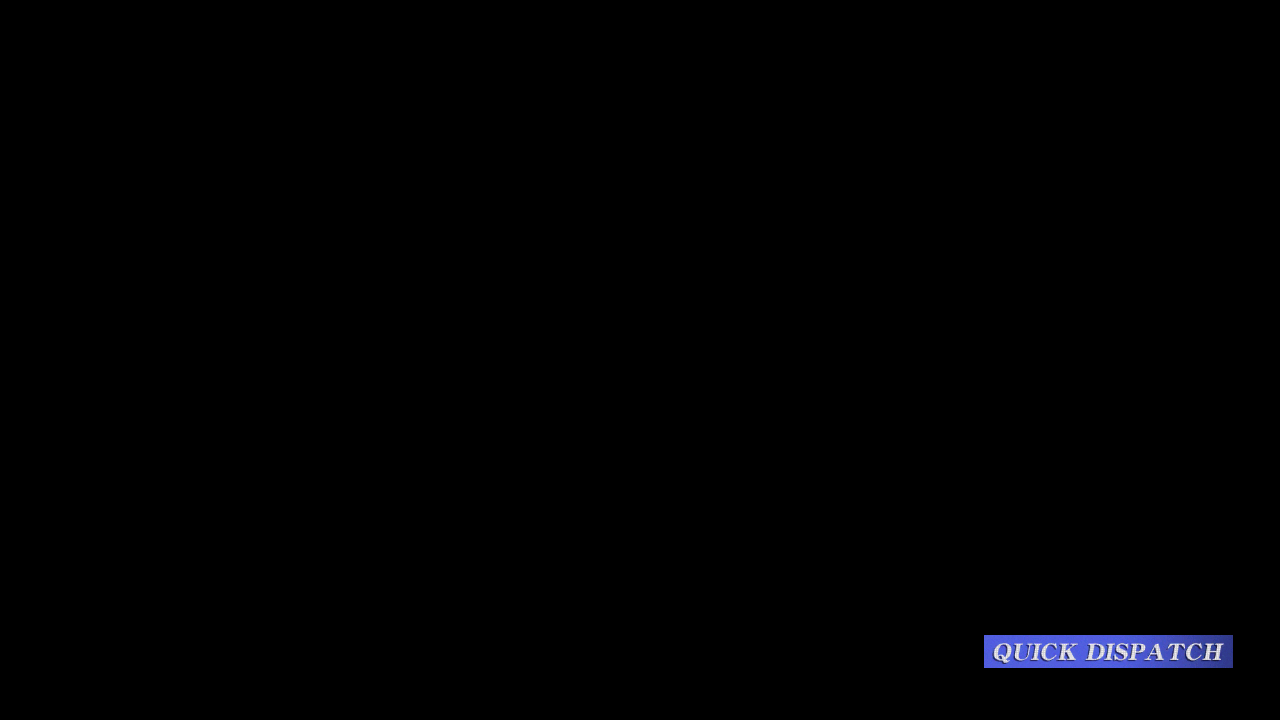
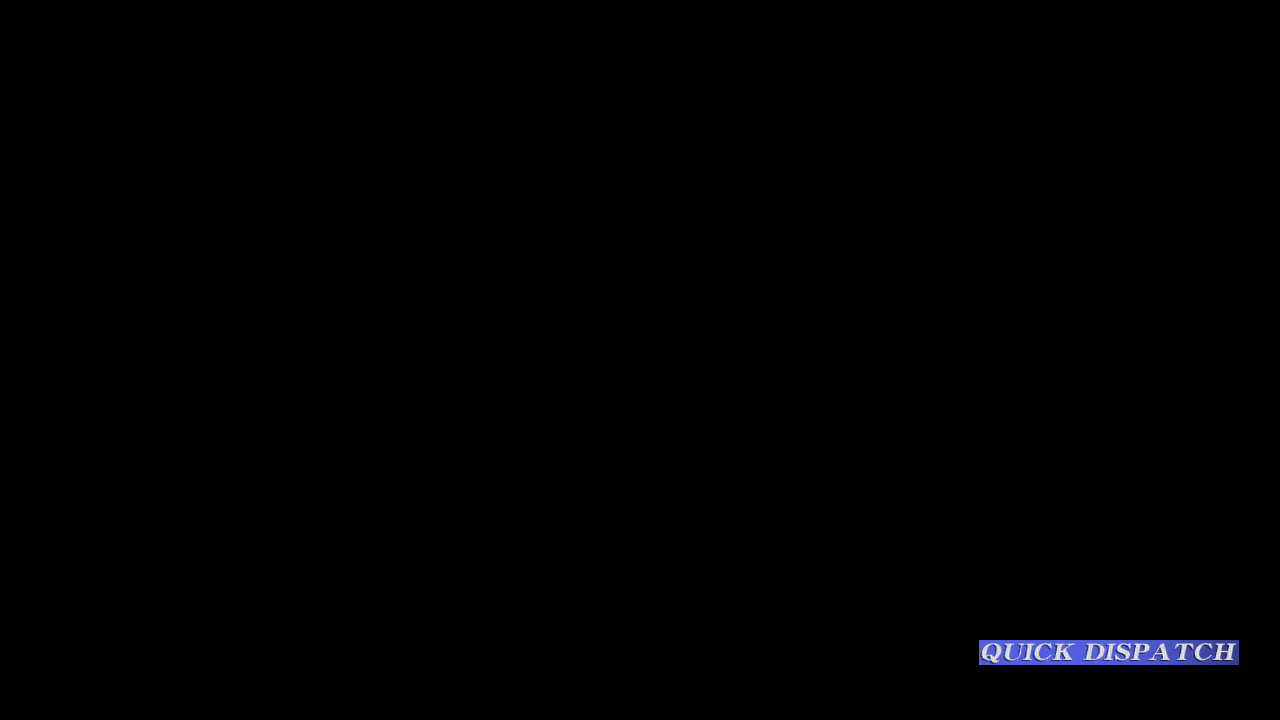
ALAS#4917更新

Changed region(s): [[0.75, 0.8556, 0.9688, 0.9472]]

diff --git a/module/coalition/assets.py b/module/coalition/assets.py
@@ -36,15 +36,18 @@ FROSTFALL_SWITCH_SINGLE = Button(area={'cn': (968, 449, 1098, 478), 'en': (968, 
 FROSTFALL_TC1 = Button(area={'cn': (304, 320, 330, 332), 'en': (304, 320, 330, 332), 'jp': (304, 320, 330, 332), 'tw': (304, 320, 330, 332)}, color={'cn': (204, 162, 254), 'en': (204, 162, 254), 'jp': (204, 162, 254), 'tw': (188, 137, 254)}, button={'cn': (304, 320, 330, 332), 'en': (304, 320, 330, 332), 'jp': (304, 320, 330, 332), 'tw': (304, 320, 330, 332)}, file={'cn': './assets/cn/coalition/FROSTFALL_TC1.png', 'en': './assets/en/coalition/FROSTFALL_TC1.png', 'jp': './assets/jp/coalition/FROSTFALL_TC1.png', 'tw': './assets/tw/coalition/FROSTFALL_TC1.png'})
 FROSTFALL_TC2 = Button(area={'cn': (631, 160, 658, 173), 'en': (631, 160, 658, 173), 'jp': (631, 160, 658, 173), 'tw': (631, 160, 658, 173)}, color={'cn': (186, 136, 252), 'en': (186, 136, 252), 'jp': (186, 136, 252), 'tw': (186, 136, 252)}, button={'cn': (631, 160, 658, 173), 'en': (631, 160, 658, 173), 'jp': (631, 160, 658, 173), 'tw': (631, 160, 658, 173)}, file={'cn': './assets/cn/coalition/FROSTFALL_TC2.png', 'en': './assets/en/coalition/FROSTFALL_TC2.png', 'jp': './assets/jp/coalition/FROSTFALL_TC2.png', 'tw': './assets/tw/coalition/FROSTFALL_TC2.png'})
 FROSTFALL_TC3 = Button(area={'cn': (810, 362, 835, 373), 'en': (810, 362, 835, 373), 'jp': (810, 362, 835, 373), 'tw': (810, 362, 835, 373)}, color={'cn': (197, 153, 255), 'en': (197, 153, 255), 'jp': (197, 153, 255), 'tw': (197, 153, 255)}, button={'cn': (810, 362, 835, 373), 'en': (810, 362, 835, 373), 'jp': (810, 362, 835, 373), 'tw': (810, 362, 835, 373)}, file={'cn': './assets/cn/coalition/FROSTFALL_TC3.png', 'en': './assets/en/coalition/FROSTFALL_TC3.png', 'jp': './assets/jp/coalition/FROSTFALL_TC3.png', 'tw': './assets/tw/coalition/FROSTFALL_TC3.png'})
-NEONCITY_COALITION_CHECK = Button(area={'cn': (230, 36, 276, 82), 'en': (230, 36, 276, 82), 'jp': (230, 36, 276, 82), 'tw': (230, 36, 276, 82)}, color={'cn': (136, 139, 142), 'en': (136, 139, 142), 'jp': (136, 139, 142), 'tw': (136, 139, 142)}, button={'cn': (230, 36, 276, 82), 'en': (230, 36, 276, 82), 'jp': (230, 36, 276, 82), 'tw': (230, 36, 276, 82)}, file={'cn': './assets/cn/coalition/NEONCITY_COALITION_CHECK.png', 'en': './assets/cn/coalition/NEONCITY_COALITION_CHECK.png', 'jp': './assets/cn/coalition/NEONCITY_COALITION_CHECK.png', 'tw': './assets/cn/coalition/NEONCITY_COALITION_CHECK.png'})
-NEONCITY_EASY = Button(area={'cn': (255, 252, 308, 270), 'en': (255, 252, 308, 270), 'jp': (255, 252, 308, 270), 'tw': (255, 252, 308, 270)}, color={'cn': (131, 132, 135), 'en': (131, 132, 135), 'jp': (131, 132, 135), 'tw': (131, 132, 135)}, button={'cn': (255, 252, 308, 270), 'en': (255, 252, 308, 270), 'jp': (255, 252, 308, 270), 'tw': (255, 252, 308, 270)}, file={'cn': './assets/cn/coalition/NEONCITY_EASY.png', 'en': './assets/cn/coalition/NEONCITY_EASY.png', 'jp': './assets/cn/coalition/NEONCITY_EASY.png', 'tw': './assets/cn/coalition/NEONCITY_EASY.png'})
-NEONCITY_EX = Button(area={'cn': (655, 353, 708, 370), 'en': (655, 353, 708, 370), 'jp': (655, 353, 708, 370), 'tw': (655, 353, 708, 370)}, color={'cn': (151, 150, 151), 'en': (151, 150, 151), 'jp': (151, 150, 151), 'tw': (151, 150, 151)}, button={'cn': (655, 353, 708, 370), 'en': (655, 353, 708, 370), 'jp': (655, 353, 708, 370), 'tw': (655, 353, 708, 370)}, file={'cn': './assets/cn/coalition/NEONCITY_EX.png', 'en': './assets/cn/coalition/NEONCITY_EX.png', 'jp': './assets/cn/coalition/NEONCITY_EX.png', 'tw': './assets/cn/coalition/NEONCITY_EX.png'})
-NEONCITY_FLEET_PREPARATION = Button(area={'cn': (1034, 533, 1130, 556), 'en': (1034, 533, 1130, 556), 'jp': (1034, 533, 1130, 556), 'tw': (1034, 533, 1130, 556)}, color={'cn': (107, 137, 239), 'en': (107, 137, 239), 'jp': (107, 137, 239), 'tw': (107, 137, 239)}, button={'cn': (1034, 533, 1130, 556), 'en': (1034, 533, 1130, 556), 'jp': (1034, 533, 1130, 556), 'tw': (1034, 533, 1130, 556)}, file={'cn': './assets/cn/coalition/NEONCITY_FLEET_PREPARATION.png', 'en': './assets/cn/coalition/NEONCITY_FLEET_PREPARATION.png', 'jp': './assets/cn/coalition/NEONCITY_FLEET_PREPARATION.png', 'tw': './assets/cn/coalition/NEONCITY_FLEET_PREPARATION.png'})
-NEONCITY_HARD = Button(area={'cn': (924, 549, 977, 567), 'en': (924, 549, 977, 567), 'jp': (924, 549, 977, 567), 'tw': (924, 549, 977, 567)}, color={'cn': (128, 128, 131), 'en': (128, 128, 131), 'jp': (128, 128, 131), 'tw': (128, 128, 131)}, button={'cn': (924, 549, 977, 567), 'en': (924, 549, 977, 567), 'jp': (924, 549, 977, 567), 'tw': (924, 549, 977, 567)}, file={'cn': './assets/cn/coalition/NEONCITY_HARD.png', 'en': './assets/cn/coalition/NEONCITY_HARD.png', 'jp': './assets/cn/coalition/NEONCITY_HARD.png', 'tw': './assets/cn/coalition/NEONCITY_HARD.png'})
-NEONCITY_MODE_BATTLE = Button(area={'cn': (8, 627, 86, 671), 'en': (8, 627, 86, 671), 'jp': (8, 627, 86, 671), 'tw': (8, 627, 86, 671)}, color={'cn': (72, 56, 62), 'en': (72, 56, 62), 'jp': (72, 56, 62), 'tw': (72, 56, 62)}, button={'cn': (8, 627, 86, 671), 'en': (8, 627, 86, 671), 'jp': (8, 627, 86, 671), 'tw': (8, 627, 86, 671)}, file={'cn': './assets/cn/coalition/NEONCITY_MODE_BATTLE.png', 'en': './assets/cn/coalition/NEONCITY_MODE_BATTLE.png', 'jp': './assets/cn/coalition/NEONCITY_MODE_BATTLE.png', 'tw': './assets/cn/coalition/NEONCITY_MODE_BATTLE.png'})
-NEONCITY_MODE_STORY = Button(area={'cn': (173, 627, 251, 668), 'en': (173, 627, 251, 668), 'jp': (173, 627, 251, 668), 'tw': (173, 627, 251, 668)}, color={'cn': (85, 67, 72), 'en': (85, 67, 72), 'jp': (85, 67, 72), 'tw': (85, 67, 72)}, button={'cn': (173, 627, 251, 668), 'en': (173, 627, 251, 668), 'jp': (173, 627, 251, 668), 'tw': (173, 627, 251, 668)}, file={'cn': './assets/cn/coalition/NEONCITY_MODE_STORY.png', 'en': './assets/cn/coalition/NEONCITY_MODE_STORY.png', 'jp': './assets/cn/coalition/NEONCITY_MODE_STORY.png', 'tw': './assets/cn/coalition/NEONCITY_MODE_STORY.png'})
-NEONCITY_NORMAL = Button(area={'cn': (329, 453, 381, 472), 'en': (329, 453, 381, 472), 'jp': (329, 453, 381, 472), 'tw': (329, 453, 381, 472)}, color={'cn': (148, 149, 152), 'en': (148, 149, 152), 'jp': (148, 149, 152), 'tw': (148, 149, 152)}, button={'cn': (329, 453, 381, 472), 'en': (329, 453, 381, 472), 'jp': (329, 453, 381, 472), 'tw': (329, 453, 381, 472)}, file={'cn': './assets/cn/coalition/NEONCITY_NORMAL.png', 'en': './assets/cn/coalition/NEONCITY_NORMAL.png', 'jp': './assets/cn/coalition/NEONCITY_NORMAL.png', 'tw': './assets/cn/coalition/NEONCITY_NORMAL.png'})
+NEONCITY_COALITION_CHECK = Button(area={'cn': (230, 36, 276, 82), 'en': (179, 30, 276, 68), 'jp': (122, 30, 250, 86), 'tw': (230, 36, 276, 82)}, color={'cn': (136, 139, 142), 'en': (95, 98, 101), 'jp': (71, 86, 101), 'tw': (136, 139, 142)}, button={'cn': (230, 36, 276, 82), 'en': (179, 30, 276, 68), 'jp': (122, 30, 250, 86), 'tw': (230, 36, 276, 82)}, file={'cn': './assets/cn/coalition/NEONCITY_COALITION_CHECK.png', 'en': './assets/en/coalition/NEONCITY_COALITION_CHECK.png', 'jp': './assets/jp/coalition/NEONCITY_COALITION_CHECK.png', 'tw': './assets/cn/coalition/NEONCITY_COALITION_CHECK.png'})
+NEONCITY_EASY = Button(area={'cn': (255, 252, 308, 270), 'en': (306, 208, 349, 229), 'jp': (245, 250, 320, 273), 'tw': (255, 252, 308, 270)}, color={'cn': (131, 132, 135), 'en': (115, 124, 154), 'jp': (130, 130, 134), 'tw': (131, 132, 135)}, button={'cn': (255, 252, 308, 270), 'en': (306, 208, 349, 229), 'jp': (245, 250, 320, 273), 'tw': (255, 252, 308, 270)}, file={'cn': './assets/cn/coalition/NEONCITY_EASY.png', 'en': './assets/en/coalition/NEONCITY_EASY.png', 'jp': './assets/jp/coalition/NEONCITY_EASY.png', 'tw': './assets/cn/coalition/NEONCITY_EASY.png'})
+NEONCITY_EX = Button(area={'cn': (655, 353, 708, 370), 'en': (714, 308, 741, 328), 'jp': (643, 350, 720, 373), 'tw': (655, 353, 708, 370)}, color={'cn': (151, 150, 151), 'en': (162, 100, 99), 'jp': (137, 136, 137), 'tw': (151, 150, 151)}, button={'cn': (655, 353, 708, 370), 'en': (714, 308, 741, 328), 'jp': (643, 350, 720, 373), 'tw': (655, 353, 708, 370)}, file={'cn': './assets/cn/coalition/NEONCITY_EX.png', 'en': './assets/en/coalition/NEONCITY_EX.png', 'jp': './assets/jp/coalition/NEONCITY_EX.png', 'tw': './assets/cn/coalition/NEONCITY_EX.png'})
+NEONCITY_FLEET_PREPARATION = Button(area={'cn': (1034, 533, 1130, 556), 'en': (1047, 532, 1118, 560), 'jp': (1043, 529, 1123, 560), 'tw': (1034, 533, 1130, 556)}, color={'cn': (107, 137, 239), 'en': (80, 116, 237), 'jp': (80, 115, 231), 'tw': (107, 137, 239)}, button={'cn': (1034, 533, 1130, 556), 'en': (1047, 532, 1118, 560), 'jp': (1043, 529, 1123, 560), 'tw': (1034, 533, 1130, 556)}, file={'cn': './assets/cn/coalition/NEONCITY_FLEET_PREPARATION.png', 'en': './assets/en/coalition/NEONCITY_FLEET_PREPARATION.png', 'jp': './assets/jp/coalition/NEONCITY_FLEET_PREPARATION.png', 'tw': './assets/cn/coalition/NEONCITY_FLEET_PREPARATION.png'})
+NEONCITY_HARD = Button(area={'cn': (924, 549, 977, 567), 'en': (977, 507, 1016, 524), 'jp': (913, 545, 989, 570), 'tw': (924, 549, 977, 567)}, color={'cn': (128, 128, 131), 'en': (115, 123, 150), 'jp': (112, 111, 115), 'tw': (128, 128, 131)}, button={'cn': (924, 549, 977, 567), 'en': (977, 507, 1016, 524), 'jp': (913, 545, 989, 570), 'tw': (924, 549, 977, 567)}, file={'cn': './assets/cn/coalition/NEONCITY_HARD.png', 'en': './assets/en/coalition/NEONCITY_HARD.png', 'jp': './assets/jp/coalition/NEONCITY_HARD.png', 'tw': './assets/cn/coalition/NEONCITY_HARD.png'})
+NEONCITY_MODE_BATTLE = Button(area={'cn': (8, 627, 86, 671), 'en': (14, 616, 80, 673), 'jp': (50, 608, 100, 677), 'tw': (8, 627, 86, 671)}, color={'cn': (72, 56, 62), 'en': (80, 69, 74), 'jp': (75, 69, 74), 'tw': (72, 56, 62)}, button={'cn': (8, 627, 86, 671), 'en': (14, 616, 80, 673), 'jp': (50, 608, 100, 677), 'tw': (8, 627, 86, 671)}, file={'cn': './assets/cn/coalition/NEONCITY_MODE_BATTLE.png', 'en': './assets/en/coalition/NEONCITY_MODE_BATTLE.png', 'jp': './assets/jp/coalition/NEONCITY_MODE_BATTLE.png', 'tw': './assets/cn/coalition/NEONCITY_MODE_BATTLE.png'})
+NEONCITY_MODE_STORY = Button(area={'cn': (173, 627, 251, 668), 'en': (174, 613, 239, 669), 'jp': (210, 607, 263, 680), 'tw': (173, 627, 251, 668)}, color={'cn': (85, 67, 72), 'en': (78, 66, 70), 'jp': (72, 68, 72), 'tw': (85, 67, 72)}, button={'cn': (173, 627, 251, 668), 'en': (174, 613, 239, 669), 'jp': (210, 607, 263, 680), 'tw': (173, 627, 251, 668)}, file={'cn': './assets/cn/coalition/NEONCITY_MODE_STORY.png', 'en': './assets/en/coalition/NEONCITY_MODE_STORY.png', 'jp': './assets/jp/coalition/NEONCITY_MODE_STORY.png', 'tw': './assets/cn/coalition/NEONCITY_MODE_STORY.png'})
+NEONCITY_NORMAL = Button(area={'cn': (329, 453, 381, 472), 'en': (371, 410, 429, 429), 'jp': (327, 451, 384, 474), 'tw': (329, 453, 381, 472)}, color={'cn': (148, 149, 152), 'en': (120, 128, 158), 'jp': (128, 128, 132), 'tw': (148, 149, 152)}, button={'cn': (329, 453, 381, 472), 'en': (371, 410, 429, 429), 'jp': (327, 451, 384, 474), 'tw': (329, 453, 381, 472)}, file={'cn': './assets/cn/coalition/NEONCITY_NORMAL.png', 'en': './assets/en/coalition/NEONCITY_NORMAL.png', 'jp': './assets/jp/coalition/NEONCITY_NORMAL.png', 'tw': './assets/cn/coalition/NEONCITY_NORMAL.png'})
+NEONCITY_PREPARATION_EXIT = Button(area={'cn': (1190, 52, 1231, 93), 'en': (1190, 52, 1231, 93), 'jp': (1190, 52, 1231, 93), 'tw': (1190, 52, 1231, 93)}, color={'cn': (109, 111, 115), 'en': (109, 111, 115), 'jp': (109, 111, 115), 'tw': (109, 111, 115)}, button={'cn': (1190, 52, 1231, 93), 'en': (1190, 52, 1231, 93), 'jp': (1190, 52, 1231, 93), 'tw': (1190, 52, 1231, 93)}, file={'cn': './assets/cn/coalition/NEONCITY_PREPARATION_EXIT.png', 'en': './assets/cn/coalition/NEONCITY_PREPARATION_EXIT.png', 'jp': './assets/cn/coalition/NEONCITY_PREPARATION_EXIT.png', 'tw': './assets/cn/coalition/NEONCITY_PREPARATION_EXIT.png'})
 NEONCITY_PT_OCR = Button(area={'cn': (1179, 166, 1251, 184), 'en': (1179, 166, 1251, 184), 'jp': (1179, 166, 1251, 184), 'tw': (1179, 166, 1251, 184)}, color={'cn': (31, 38, 44), 'en': (31, 38, 44), 'jp': (31, 38, 44), 'tw': (31, 38, 44)}, button={'cn': (1179, 166, 1251, 184), 'en': (1179, 166, 1251, 184), 'jp': (1179, 166, 1251, 184), 'tw': (1179, 166, 1251, 184)}, file={'cn': './assets/cn/coalition/NEONCITY_PT_OCR.png', 'en': './assets/cn/coalition/NEONCITY_PT_OCR.png', 'jp': './assets/cn/coalition/NEONCITY_PT_OCR.png', 'tw': './assets/cn/coalition/NEONCITY_PT_OCR.png'})
-NEONCITY_SP = Button(area={'cn': (821, 168, 874, 186), 'en': (821, 168, 874, 186), 'jp': (821, 168, 874, 186), 'tw': (821, 168, 874, 186)}, color={'cn': (144, 143, 143), 'en': (144, 143, 143), 'jp': (144, 143, 143), 'tw': (144, 143, 143)}, button={'cn': (821, 168, 874, 186), 'en': (821, 168, 874, 186), 'jp': (821, 168, 874, 186), 'tw': (821, 168, 874, 186)}, file={'cn': './assets/cn/coalition/NEONCITY_SP.png', 'en': './assets/cn/coalition/NEONCITY_SP.png', 'jp': './assets/cn/coalition/NEONCITY_SP.png', 'tw': './assets/cn/coalition/NEONCITY_SP.png'})
-NEONCITY_SWITCH_MULTI = Button(area={'cn': (1087, 458, 1217, 486), 'en': (1087, 458, 1217, 486), 'jp': (1087, 458, 1217, 486), 'tw': (1087, 458, 1217, 486)}, color={'cn': (233, 183, 63), 'en': (233, 183, 63), 'jp': (233, 183, 63), 'tw': (233, 183, 63)}, button={'cn': (1087, 458, 1217, 486), 'en': (1087, 458, 1217, 486), 'jp': (1087, 458, 1217, 486), 'tw': (1087, 458, 1217, 486)}, file={'cn': './assets/cn/coalition/NEONCITY_SWITCH_MULTI.png', 'en': './assets/cn/coalition/NEONCITY_SWITCH_MULTI.png', 'jp': './assets/cn/coalition/NEONCITY_SWITCH_MULTI.png', 'tw': './assets/cn/coalition/NEONCITY_SWITCH_MULTI.png'})
-NEONCITY_SWITCH_SINGLE = Button(area={'cn': (940, 458, 1071, 486), 'en': (940, 458, 1071, 486), 'jp': (940, 458, 1071, 486), 'tw': (940, 458, 1071, 486)}, color={'cn': (230, 181, 62), 'en': (230, 181, 62), 'jp': (230, 181, 62), 'tw': (230, 181, 62)}, button={'cn': (940, 458, 1071, 486), 'en': (940, 458, 1071, 486), 'jp': (940, 458, 1071, 486), 'tw': (940, 458, 1071, 486)}, file={'cn': './assets/cn/coalition/NEONCITY_SWITCH_SINGLE.png', 'en': './assets/cn/coalition/NEONCITY_SWITCH_SINGLE.png', 'jp': './assets/cn/coalition/NEONCITY_SWITCH_SINGLE.png', 'tw': './assets/cn/coalition/NEONCITY_SWITCH_SINGLE.png'})
+NEONCITY_SP = Button(area={'cn': (821, 168, 874, 186), 'en': (881, 125, 905, 143), 'jp': (817, 166, 877, 190), 'tw': (821, 168, 874, 186)}, color={'cn': (144, 143, 143), 'en': (152, 98, 98), 'jp': (125, 124, 125), 'tw': (144, 143, 143)}, button={'cn': (821, 168, 874, 186), 'en': (881, 125, 905, 143), 'jp': (817, 166, 877, 190), 'tw': (821, 168, 874, 186)}, file={'cn': './assets/cn/coalition/NEONCITY_SP.png', 'en': './assets/en/coalition/NEONCITY_SP.png', 'jp': './assets/jp/coalition/NEONCITY_SP.png', 'tw': './assets/cn/coalition/NEONCITY_SP.png'})
+NEONCITY_SWITCH_MULTI = Button(area={'cn': (1087, 458, 1217, 486), 'en': (1085, 461, 1215, 483), 'jp': (1114, 461, 1185, 483), 'tw': (1087, 458, 1217, 486)}, color={'cn': (233, 183, 63), 'en': (184, 145, 50), 'jp': (191, 144, 54), 'tw': (233, 183, 63)}, button={'cn': (1087, 458, 1217, 486), 'en': (1085, 461, 1215, 483), 'jp': (1114, 461, 1185, 483), 'tw': (1087, 458, 1217, 486)}, file={'cn': './assets/cn/coalition/NEONCITY_SWITCH_MULTI.png', 'en': './assets/en/coalition/NEONCITY_SWITCH_MULTI.png', 'jp': './assets/jp/coalition/NEONCITY_SWITCH_MULTI.png', 'tw': './assets/cn/coalition/NEONCITY_SWITCH_MULTI.png'})
+NEONCITY_SWITCH_SINGLE = Button(area={'cn': (940, 458, 1071, 486), 'en': (947, 462, 1070, 482), 'jp': (975, 459, 1046, 484), 'tw': (940, 458, 1071, 486)}, color={'cn': (230, 181, 62), 'en': (178, 139, 48), 'jp': (197, 149, 52), 'tw': (230, 181, 62)}, button={'cn': (940, 458, 1071, 486), 'en': (947, 462, 1070, 482), 'jp': (975, 459, 1046, 484), 'tw': (940, 458, 1071, 486)}, file={'cn': './assets/cn/coalition/NEONCITY_SWITCH_SINGLE.png', 'en': './assets/en/coalition/NEONCITY_SWITCH_SINGLE.png', 'jp': './assets/jp/coalition/NEONCITY_SWITCH_SINGLE.png', 'tw': './assets/cn/coalition/NEONCITY_SWITCH_SINGLE.png'})
+NEONCITY_UI_BACK = Button(area={'cn': (30, 45, 73, 88), 'en': (30, 45, 73, 88), 'jp': (30, 45, 73, 88), 'tw': (30, 45, 73, 88)}, color={'cn': (54, 55, 57), 'en': (54, 55, 57), 'jp': (54, 55, 57), 'tw': (54, 55, 57)}, button={'cn': (30, 45, 73, 88), 'en': (30, 45, 73, 88), 'jp': (30, 45, 73, 88), 'tw': (30, 45, 73, 88)}, file={'cn': './assets/cn/coalition/NEONCITY_UI_BACK.png', 'en': './assets/cn/coalition/NEONCITY_UI_BACK.png', 'jp': './assets/cn/coalition/NEONCITY_UI_BACK.png', 'tw': './assets/cn/coalition/NEONCITY_UI_BACK.png'})
+NEONCITY_UI_HOME = Button(area={'cn': (1208, 43, 1251, 86), 'en': (1208, 43, 1251, 86), 'jp': (1208, 43, 1251, 86), 'tw': (1208, 43, 1251, 86)}, color={'cn': (74, 74, 77), 'en': (74, 74, 77), 'jp': (74, 74, 77), 'tw': (74, 74, 77)}, button={'cn': (1208, 43, 1251, 86), 'en': (1208, 43, 1251, 86), 'jp': (1208, 43, 1251, 86), 'tw': (1208, 43, 1251, 86)}, file={'cn': './assets/cn/coalition/NEONCITY_UI_HOME.png', 'en': './assets/cn/coalition/NEONCITY_UI_HOME.png', 'jp': './assets/cn/coalition/NEONCITY_UI_HOME.png', 'tw': './assets/cn/coalition/NEONCITY_UI_HOME.png'})

diff --git a/module/guild/assets.py b/module/guild/assets.py
@@ -12,7 +12,7 @@ GUILD_DISPATCH_CLOSE = Button(area={'cn': (1236, 102, 1266, 133), 'en': (1236, 1
 GUILD_DISPATCH_FLEET = Button(area={'cn': (982, 645, 1123, 670), 'en': (977, 639, 1221, 675), 'jp': (982, 643, 1123, 670), 'tw': (981, 637, 1123, 677)}, color={'cn': (118, 126, 209), 'en': (94, 104, 199), 'jp': (116, 124, 206), 'tw': (104, 114, 214)}, button={'cn': (982, 645, 1123, 670), 'en': (977, 639, 1221, 675), 'jp': (982, 643, 1123, 670), 'tw': (981, 637, 1123, 677)}, file={'cn': './assets/cn/guild/GUILD_DISPATCH_FLEET.png', 'en': './assets/en/guild/GUILD_DISPATCH_FLEET.png', 'jp': './assets/jp/guild/GUILD_DISPATCH_FLEET.png', 'tw': './assets/tw/guild/GUILD_DISPATCH_FLEET.png'})
 GUILD_DISPATCH_FLEET_UNFILLED = Button(area={'cn': (982, 645, 1122, 670), 'en': (977, 644, 1221, 671), 'jp': (981, 644, 1124, 670), 'tw': (981, 644, 1122, 670)}, color={'cn': (86, 93, 161), 'en': (75, 83, 150), 'jp': (87, 93, 158), 'tw': (86, 93, 162)}, button={'cn': (982, 645, 1122, 670), 'en': (977, 644, 1221, 671), 'jp': (981, 644, 1124, 670), 'tw': (981, 644, 1122, 670)}, file={'cn': './assets/cn/guild/GUILD_DISPATCH_FLEET_UNFILLED.png', 'en': './assets/en/guild/GUILD_DISPATCH_FLEET_UNFILLED.png', 'jp': './assets/jp/guild/GUILD_DISPATCH_FLEET_UNFILLED.png', 'tw': './assets/tw/guild/GUILD_DISPATCH_FLEET_UNFILLED.png'})
 GUILD_DISPATCH_IN_PROGRESS = Button(area={'cn': (1089, 638, 1280, 653), 'en': (1183, 641, 1279, 668), 'jp': (1183, 641, 1279, 668), 'tw': (1183, 641, 1279, 668)}, color={'cn': (228, 163, 74), 'en': (233, 171, 73), 'jp': (233, 171, 73), 'tw': (233, 171, 73)}, button={'cn': (1089, 638, 1280, 653), 'en': (1183, 641, 1279, 668), 'jp': (1183, 641, 1279, 668), 'tw': (1183, 641, 1279, 668)}, file={'cn': './assets/cn/guild/GUILD_DISPATCH_IN_PROGRESS.png', 'en': './assets/en/guild/GUILD_DISPATCH_IN_PROGRESS.png', 'jp': './assets/jp/guild/GUILD_DISPATCH_IN_PROGRESS.png', 'tw': './assets/tw/guild/GUILD_DISPATCH_IN_PROGRESS.png'})
-GUILD_DISPATCH_QUICK = Button(area={'cn': (973, 639, 1113, 664), 'en': (984, 635, 1233, 668), 'jp': (979, 638, 1136, 665), 'tw': (971, 639, 1114, 664)}, color={'cn': (121, 129, 209), 'en': (97, 106, 199), 'jp': (116, 124, 206), 'tw': (120, 128, 209)}, button={'cn': (973, 639, 1113, 664), 'en': (984, 635, 1233, 668), 'jp': (979, 638, 1136, 665), 'tw': (971, 639, 1114, 664)}, file={'cn': './assets/cn/guild/GUILD_DISPATCH_QUICK.png', 'en': './assets/en/guild/GUILD_DISPATCH_QUICK.png', 'jp': './assets/jp/guild/GUILD_DISPATCH_QUICK.png', 'tw': './assets/tw/guild/GUILD_DISPATCH_QUICK.png'})
+GUILD_DISPATCH_QUICK = Button(area={'cn': (973, 639, 1113, 664), 'en': (979, 640, 1239, 665), 'jp': (979, 638, 1136, 665), 'tw': (971, 639, 1114, 664)}, color={'cn': (121, 129, 209), 'en': (107, 115, 197), 'jp': (116, 124, 206), 'tw': (120, 128, 209)}, button={'cn': (973, 639, 1113, 664), 'en': (979, 640, 1239, 665), 'jp': (979, 638, 1136, 665), 'tw': (971, 639, 1114, 664)}, file={'cn': './assets/cn/guild/GUILD_DISPATCH_QUICK.png', 'en': './assets/en/guild/GUILD_DISPATCH_QUICK.png', 'jp': './assets/jp/guild/GUILD_DISPATCH_QUICK.png', 'tw': './assets/tw/guild/GUILD_DISPATCH_QUICK.png'})
 GUILD_DISPATCH_RECOMMEND = Button(area={'cn': (1197, 231, 1259, 287), 'en': (1196, 231, 1259, 287), 'jp': (1196, 230, 1260, 288), 'tw': (1196, 231, 1259, 288)}, color={'cn': (78, 112, 187), 'en': (64, 101, 178), 'jp': (70, 104, 179), 'tw': (82, 115, 189)}, button={'cn': (1197, 231, 1259, 287), 'en': (1196, 231, 1259, 287), 'jp': (1196, 230, 1260, 288), 'tw': (1196, 231, 1259, 288)}, file={'cn': './assets/cn/guild/GUILD_DISPATCH_RECOMMEND.png', 'en': './assets/en/guild/GUILD_DISPATCH_RECOMMEND.png', 'jp': './assets/jp/guild/GUILD_DISPATCH_RECOMMEND.png', 'tw': './assets/tw/guild/GUILD_DISPATCH_RECOMMEND.png'})
 GUILD_DISPATCH_RECOMMEND_2 = Button(area={'cn': (140, 432, 193, 488), 'en': (140, 432, 193, 488), 'jp': (134, 431, 198, 489), 'tw': (140, 432, 193, 488)}, color={'cn': (64, 101, 179), 'en': (64, 101, 179), 'jp': (71, 104, 179), 'tw': (64, 101, 179)}, button={'cn': (140, 432, 193, 488), 'en': (140, 432, 193, 488), 'jp': (134, 431, 198, 489), 'tw': (140, 432, 193, 488)}, file={'cn': './assets/cn/guild/GUILD_DISPATCH_RECOMMEND_2.png', 'en': './assets/en/guild/GUILD_DISPATCH_RECOMMEND_2.png', 'jp': './assets/jp/guild/GUILD_DISPATCH_RECOMMEND_2.png', 'tw': './assets/tw/guild/GUILD_DISPATCH_RECOMMEND_2.png'})
 GUILD_LOGISTICS_ENSURE_CHECK = Button(area={'cn': (390, 382, 516, 393), 'en': (390, 382, 516, 393), 'jp': (390, 382, 516, 393), 'tw': (390, 382, 516, 393)}, color={'cn': (155, 87, 90), 'en': (155, 87, 90), 'jp': (155, 87, 90), 'tw': (155, 87, 90)}, button={'cn': (390, 382, 516, 393), 'en': (390, 382, 516, 393), 'jp': (390, 382, 516, 393), 'tw': (390, 382, 516, 393)}, file={'cn': './assets/cn/guild/GUILD_LOGISTICS_ENSURE_CHECK.png', 'en': './assets/en/guild/GUILD_LOGISTICS_ENSURE_CHECK.png', 'jp': './assets/jp/guild/GUILD_LOGISTICS_ENSURE_CHECK.png', 'tw': './assets/tw/guild/GUILD_LOGISTICS_ENSURE_CHECK.png'})

diff --git a/module/ui/ui.py b/module/ui/ui.py
@@ -1,6 +1,7 @@
 from module.base.button import Button
 from module.base.decorator import run_once
 from module.base.timer import Timer
+from module.coalition.assets import NEONCITY_FLEET_PREPARATION, NEONCITY_PREPARATION_EXIT
 from module.combat.assets import GET_ITEMS_1, GET_ITEMS_2, GET_SHIP
 from module.event_hospital.assets import HOSIPITAL_CLUE_CHECK, HOSPITAL_BATTLE_EXIT
 from module.exception import (GameNotRunningError, GamePageUnknownError,
@@ -18,7 +19,7 @@ from module.ocr.ocr import Ocr
 from module.os_handler.assets import (AUTO_SEARCH_REWARD, EXCHANGE_CHECK, RESET_FLEET_PREPARATION, RESET_TICKET_POPUP)
 from module.raid.assets import *
 from module.ui.assets import *
-from module.ui.page import (Page, page_campaign, page_event, page_main, page_main_white, page_sp)
+from module.ui.page import Page, page_campaign, page_event, page_main, page_main_white, page_sp
 from module.ui_white.assets import *
 
 
@@ -546,12 +547,17 @@ class UI(InfoHandler):
             return True
 
         # RPG event (raid_20240328)
-        if self.appear_then_click(RPG_STATUS_POPUP, offset=(30, 30), interval=3):
-            return True
+        # if self.appear_then_click(RPG_STATUS_POPUP, offset=(30, 30), interval=3):
+        #     return True
         # Hospital event (20250327)
-        if self.appear_then_click(HOSIPITAL_CLUE_CHECK, offset=(20, 20), interval=2):
-            return True
-        if self.appear_then_click(HOSPITAL_BATTLE_EXIT, offset=(20, 20), interval=2):
+        # if self.appear_then_click(HOSIPITAL_CLUE_CHECK, offset=(20, 20), interval=2):
+        #     return True
+        # if self.appear_then_click(HOSPITAL_BATTLE_EXIT, offset=(20, 20), interval=2):
+        #     return True
+        # Neon city (coalition_20250626)
+        if self.appear(NEONCITY_FLEET_PREPARATION, offset=(20, 20), interval=3):
+            logger.info(f'{NEONCITY_FLEET_PREPARATION} -> {NEONCITY_PREPARATION_EXIT}')
+            self.device.click(NEONCITY_PREPARATION_EXIT)
             return True
 
         # Idle page

diff --git a/module/coalition/ui.py b/module/coalition/ui.py
@@ -4,6 +4,7 @@ from module.combat.assets import BATTLE_PREPARATION
 from module.combat.combat import Combat
 from module.exception import CampaignNameError, RequestHumanTakeover, ScriptError
 from module.logger import logger
+from module.ui.assets import BACK_ARROW
 from module.ui.page import page_coalition
 from module.ui.switch import Switch
 
@@ -203,6 +204,29 @@ class CoalitionUI(Combat):
         self.coalition_ensure_fleet(event, mode)
         return True
 
+    def coalition_map_exit(self, event):
+        """
+        Pages:
+            in: BATTLE_PREPARATION, or coalition specific fleet_preparation
+            out: in_coalition
+        """
+        logger.info('Coalition map exit')
+        fleet_preparation = self.coalition_get_fleet_preparation(event)
+        for _ in self.loop():
+            if self.in_coalition():
+                break
+            if self.is_in_main():
+                break
+
+            if self.appear(BATTLE_PREPARATION, offset=(20, 20), interval=3):
+                logger.info(f'{BATTLE_PREPARATION} -> {BACK_ARROW}')
+                self.device.click(BACK_ARROW)
+                continue
+            if self.appear(fleet_preparation, offset=(20, 20), interval=3):
+                logger.info(f'{fleet_preparation} -> {NEONCITY_PREPARATION_EXIT}')
+                self.device.click(NEONCITY_PREPARATION_EXIT)
+                continue
+
     def enter_map(self, event, stage, mode, skip_first_screenshot=True):
         """
         Args:
@@ -299,10 +323,3 @@ class CoalitionUI(Combat):
             # Auto confirm
             if self.handle_combat_automation_confirm():
                 continue
-
-
-
-if __name__ == '__main__':
-    self = CoalitionUI('alas')
-    self.device.screenshot()
-    print(self.image_color_count(NEONCITY_MODE_BATTLE, color=(123, 41, 41), threshold=221, count=100))

diff --git a/module/coalition/coalition.py b/module/coalition/coalition.py
@@ -106,10 +106,15 @@ class Coalition(CoalitionCombat, CampaignEvent):
             self.config.override(
                 Coalition_Fleet='multi',
             )
-        self.emotion.check_reduce(battle=self.coalition_get_battles(event, stage))
+        try:
+            self.emotion.check_reduce(battle=self.coalition_get_battles(event, stage))
+        except ScriptEnd:
+            self.coalition_map_exit(event)
+            raise
 
         self.enter_map(event=event, stage=stage, mode=fleet)
         if self.triggered_stop_condition(oil_check=True):
+            self.coalition_map_exit(event)
             raise ScriptEnd
         self.coalition_combat()
 

diff --git a/module/ui/page.py b/module/ui/page.py
@@ -146,8 +146,8 @@ page_campaign.link(button=CAMPAIGN_GOTO_EVENT, destination=page_sp)
 # page_coalition_menu.link(button=COALITION_ACADEMY_GOTO_CAMPAIGN, destination=page_coalition)
 # NEONCITY
 page_coalition = Page(NEONCITY_COALITION_CHECK)
-page_coalition.link(button=GOTO_MAIN, destination=page_main)
-page_coalition.link(button=BACK_ARROW, destination=page_campaign)
+page_coalition.link(button=NEONCITY_UI_HOME, destination=page_main)
+page_coalition.link(button=NEONCITY_UI_BACK, destination=page_campaign)
 page_campaign_menu.link(button=CAMPAIGN_MENU_GOTO_EVENT, destination=page_coalition)
 
 # Operation Siren
